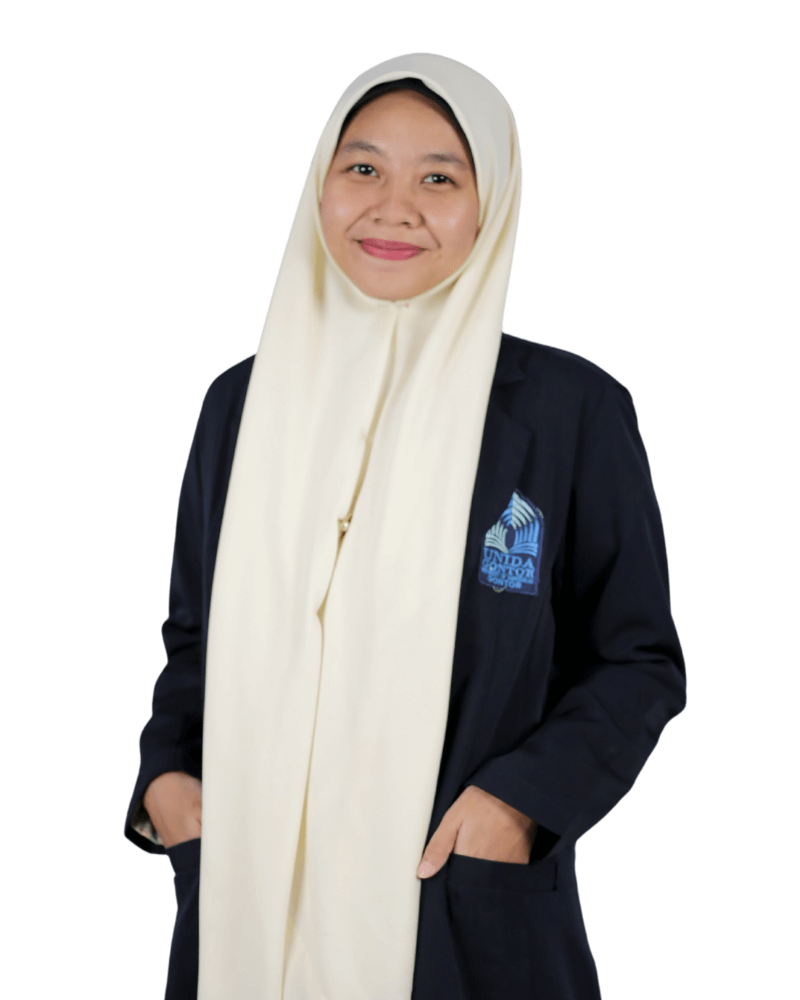
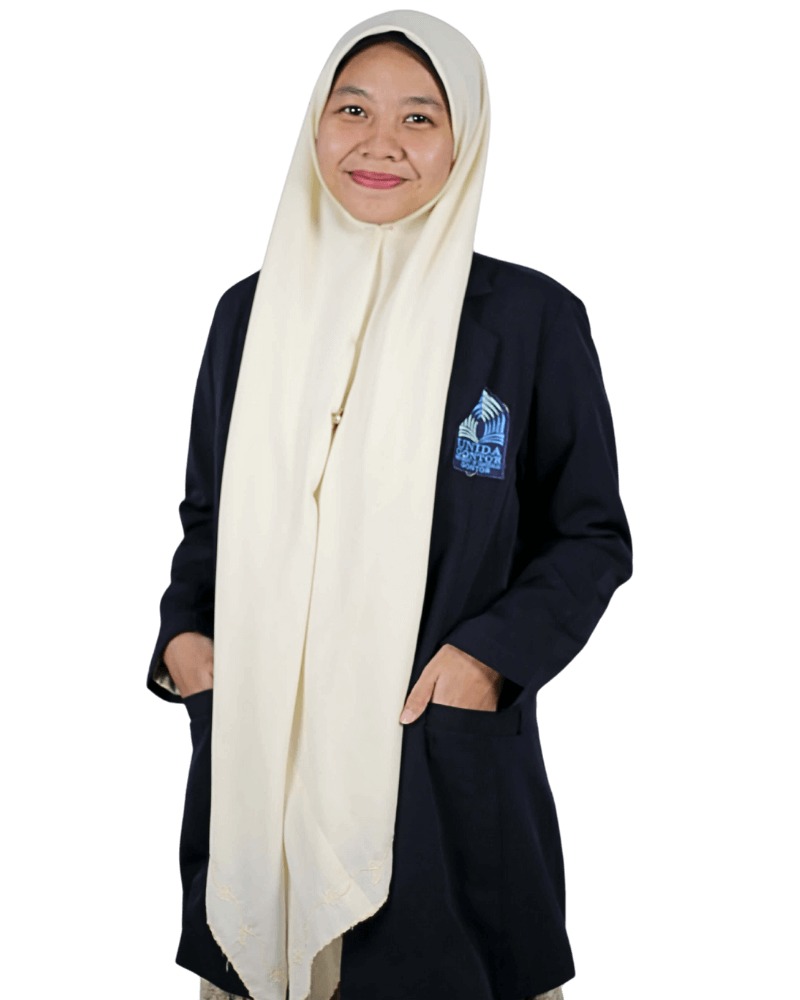
refine outfit cewe

Changed region(s): [[0.1562, 0.0, 0.875, 1.0]]

diff --git a/src/app/(public)/outfit/components/Slider.tsx b/src/app/(public)/outfit/components/Slider.tsx
@@ -58,6 +58,8 @@ export default function Slider() {
 	const isAnimating = useRef(false);
 	const [isCowo, setIsCowo] = useState(true);
 
+	const activeImageYPercent = isCowo ? 15 : 5;
+
 	// Helper to handle cyclic indices
 	const getIndex = (index: number) => {
 		return (
@@ -158,8 +160,8 @@ export default function Slider() {
 				if (img)
 					gsap.set(img, {
 						rotation: -config.rotation,
-						scale: 1.2,
-						yPercent: isActive ? 15 : 0,
+						scale: isCowo ? 1.2 : 1,
+						yPercent: isActive && isCowo ? 15 : isActive && !isCowo ? 5 : 0,
 					});
 			});
 
@@ -307,8 +309,8 @@ export default function Slider() {
 					if (img) {
 						gsap.set(img, {
 							rotation: 0,
-							scale: 1.2,
-							yPercent: 15,
+							scale: isCowo ? 1.2 : 1,
+							yPercent: activeImageYPercent,
 						});
 					}
 
@@ -435,8 +437,8 @@ export default function Slider() {
 						if (img) {
 							gsap.set(img, {
 								rotation: -pos.rotation,
-								scale: 1.2,
-								yPercent: isActive ? 15 : 0,
+								scale: isCowo ? 1.2 : 1,
+								yPercent: isActive && isCowo ? 15 : isActive && !isCowo ? 5 : 0,
 							});
 						}
 					});
@@ -518,7 +520,12 @@ export default function Slider() {
 
 				const img = incomingSlide.querySelector("img");
 				if (img) {
-					gsap.to(img, { rotation: 0, yPercent: 15, duration: 2, ease: "hop" });
+					gsap.to(img, {
+						rotation: 0,
+						yPercent: activeImageYPercent,
+						duration: 2,
+						ease: "hop",
+					});
 				}
 			}
 
@@ -577,7 +584,7 @@ export default function Slider() {
 				if (img) {
 					gsap.set(img, {
 						rotation: -slidePositions[newNeighborPos].rotation,
-						scale: 1.2,
+						scale: isCowo ? 1.2 : 1,
 						yPercent: 0,
 					});
 				}
